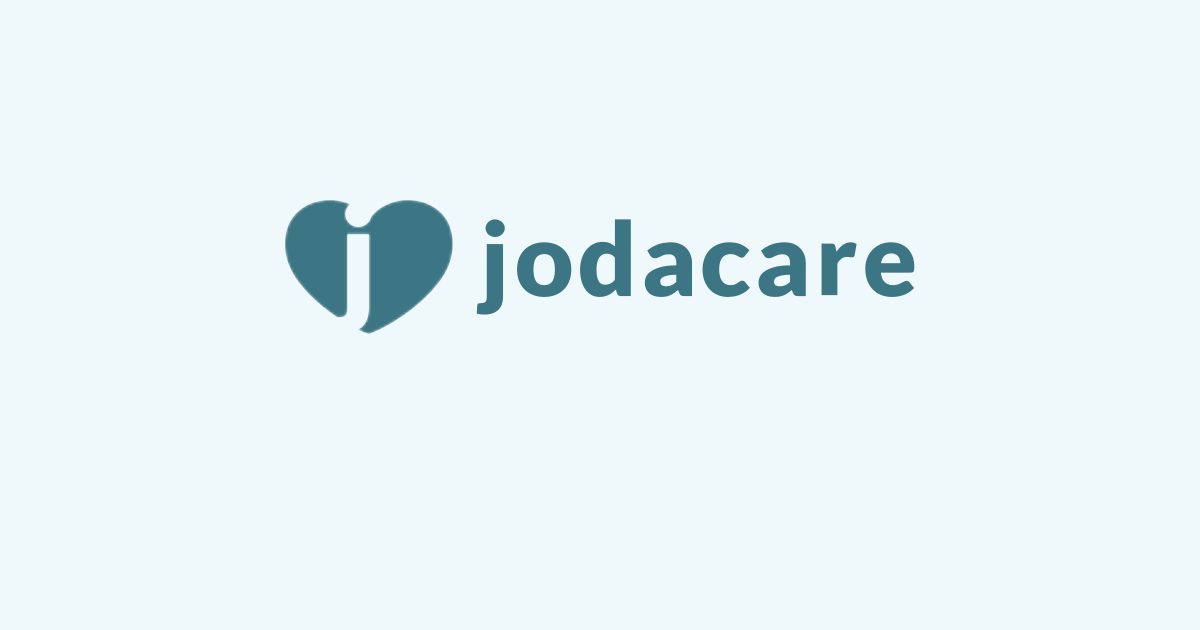
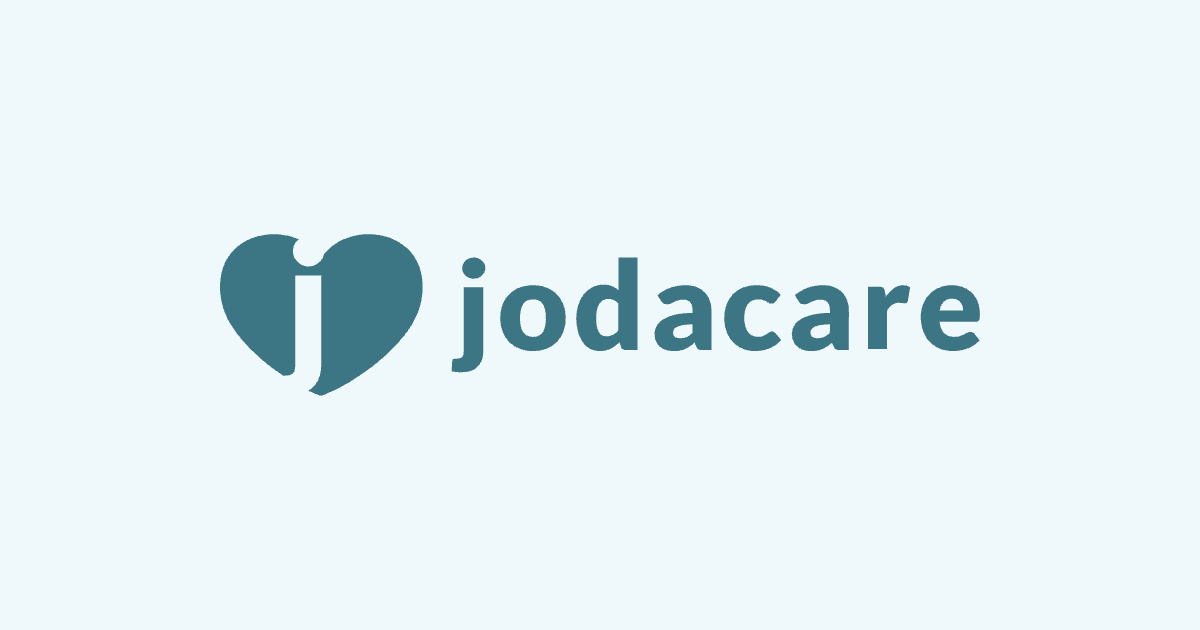
design(og): nytt delingsbilde, og tøm eksempelfelt ved fokus
og-image.png byttet til versjonen fra logopakken. Samme format
(1200x630), men logoen er sentrert og tegnet på nytt fra vektorformen.

På /rettigheter måtte man slette «Anne Berg» selv før man kunne skrive
sitt eget navn. Nå tømmes et felt som fortsatt står med eksempelteksten
i det markøren settes i det.

Går du ut av feltet uten å skrive noe, kommer eksempelet tilbake — ellers
ville en klikk-gjennomgang tømt hele brevet. Har du først skrevet i
feltet, står det du etterlot deg, også om det er tomt.

Statusen «rørt» styrer nå tre ting samtidig: dempet eller mørk tekst,
tømming ved fokus, og om «Tjenesten det gjelder» fortsatt fylles
automatisk fra valgt situasjon. tjenesteTouched er erstattet av den.

Nedtrekket for statsforvalter tømmes ikke — der velger man fra en liste.

Claude-Session: https://claude.ai/code/session_016StMWKjupE55sdfeuipjYT

Changed region(s): [[0.185, 0.3016, 0.8325, 0.6333]]

diff --git a/src/components/rettigheter/Rettighetsveileder.tsx b/src/components/rettigheter/Rettighetsveileder.tsx
@@ -63,7 +63,9 @@ export function Rettighetsveileder() {
   const [who, setWho] = useState<WhoId>(DEFAULT_WHO);
   const [sitId, setSitId] = useState<string>(DEFAULT_SIT);
   const [fields, setFields] = useState<Fields>(initialFields);
-  const [tjenesteTouched, setTjenesteTouched] = useState(false);
+  // Hvilke felt brukeren selv har skrevet i. Styrer både dempet tekst,
+  // tømming ved fokus og om «Tjenesten det gjelder» fylles automatisk.
+  const [touched, setTouched] = useState<Partial<Record<FieldKey, boolean>>>({});
   const [toast, setToast] = useState('');
   const letterRef = useRef<HTMLPreElement>(null);
   const answerRef = useRef<HTMLDivElement>(null);
@@ -81,7 +83,7 @@ export function Rettighetsveileder() {
     const validSit = allowed.find((s) => s.id === sitPart) ?? allowed[0];
     setWho(validWho.id);
     setSitId(validSit.id);
-    if (!tjenesteTouched) {
+    if (!touched.tjeneste) {
       setFields((f) => ({ ...f, tjeneste: validSit.defaultService }));
     }
     // Kjøres bare ved montering — hash leses én gang.
@@ -100,32 +102,55 @@ export function Rettighetsveileder() {
   const paaVegne = who === 'paa';
 
   // Felt som fortsatt står med eksempelverdien vises dempet, slik at det er
-  // tydelig at teksten skal byttes ut. Så snart feltet endres, blir den mørk.
+  // tydelig at teksten skal byttes ut. Så snart brukeren skriver, blir den mørk.
   const examples = data.examples as Partial<Record<FieldKey, string>>;
+  const erEksempel = (key: FieldKey) =>
+    examples[key] !== undefined && !touched[key];
   const fieldClass = (key: FieldKey) =>
-    clsx(
-      inputClass,
-      examples[key] !== undefined && fields[key] === examples[key]
-        ? 'text-text-light'
-        : 'text-text',
-    );
+    clsx(inputClass, erEksempel(key) ? 'text-text-light' : 'text-text');
 
   const setField = useCallback((key: FieldKey, value: string) => {
     setFields((f) => ({ ...f, [key]: value }));
   }, []);
+
+  /**
+   * Feltene er forhåndsfylt med et eksempel. Klikker du i et felt som fortsatt
+   * står med eksempelteksten, tømmes det, slik at du bare kan skrive.
+   *
+   * Går du ut igjen uten å skrive noe, kommer eksempelet tilbake — ellers ville
+   * en tilfeldig klikk-gjennomgang tømt hele brevet. Har du først skrevet i
+   * feltet, står det du etterlot deg, også om det er tomt.
+   */
+  const feltProps = (key: FieldKey) => ({
+    className: fieldClass(key),
+    value: fields[key],
+    onChange: (e: React.ChangeEvent<HTMLInputElement | HTMLTextAreaElement>) => {
+      setTouched((t) => ({ ...t, [key]: true }));
+      setField(key, e.target.value);
+    },
+    onFocus: () => {
+      if (erEksempel(key) && fields[key] !== '') setField(key, '');
+    },
+    onBlur: () => {
+      const eksempel = examples[key];
+      if (eksempel !== undefined && !touched[key] && fields[key] === '') {
+        setField(key, eksempel);
+      }
+    },
+  });
 
   const chooseWho = (id: WhoId) => {
     setWho(id);
     const ok = data.situations.filter((s) => s.appliesTo.includes(id));
     if (!ok.find((s) => s.id === sitId)) {
       setSitId(ok[0].id);
-      if (!tjenesteTouched) setField('tjeneste', ok[0].defaultService);
+      if (!touched.tjeneste) setField('tjeneste', ok[0].defaultService);
     }
   };
 
   const chooseSit = (s: Situation) => {
     setSitId(s.id);
-    if (!tjenesteTouched) setField('tjeneste', s.defaultService);
+    if (!touched.tjeneste) setField('tjeneste', s.defaultService);
     answerRef.current?.scrollIntoView({ behavior: 'smooth', block: 'start' });
   };
 
@@ -332,17 +357,13 @@ export function Rettighetsveileder() {
             <label className={labelClass}>
               {data.fields.navn}
               <input
-                className={fieldClass('navn')}
-                value={fields.navn}
-                onChange={(e) => setField('navn', e.target.value)}
+                {...feltProps('navn')}
               />
             </label>
             <label className={labelClass}>
               {data.fields.kommune}
               <input
-                className={fieldClass('kommune')}
-                value={fields.kommune}
-                onChange={(e) => setField('kommune', e.target.value)}
+                {...feltProps('kommune')}
               />
             </label>
             <label className={labelClass}>
@@ -350,7 +371,10 @@ export function Rettighetsveileder() {
               <select
                 className={fieldClass('fylke')}
                 value={fields.fylke}
-                onChange={(e) => setField('fylke', e.target.value)}
+                onChange={(e) => {
+                  setTouched((t) => ({ ...t, fylke: true }));
+                  setField('fylke', e.target.value);
+                }}
               >
                 {data.statsforvaltere.map((f) => (
                   <option key={f} value={f}>
@@ -362,9 +386,7 @@ export function Rettighetsveileder() {
             <label className={labelClass}>
               {data.fields.enhet}
               <input
-                className={fieldClass('enhet')}
-                value={fields.enhet}
-                onChange={(e) => setField('enhet', e.target.value)}
+                {...feltProps('enhet')}
               />
             </label>
             {paaVegne ? (
@@ -372,17 +394,13 @@ export function Rettighetsveileder() {
                 <label className={labelClass}>
                   {data.fields.pasient}
                   <input
-                    className={fieldClass('pasient')}
-                    value={fields.pasient}
-                    onChange={(e) => setField('pasient', e.target.value)}
+                    {...feltProps('pasient')}
                   />
                 </label>
                 <label className={labelClass}>
                   {data.fields.relasjon}
                   <input
-                    className={fieldClass('relasjon')}
-                    value={fields.relasjon}
-                    onChange={(e) => setField('relasjon', e.target.value)}
+                    {...feltProps('relasjon')}
                   />
                 </label>
               </>
@@ -390,56 +408,41 @@ export function Rettighetsveileder() {
             <label className={labelClass}>
               {data.fields.tjeneste}
               <input
-                className={fieldClass('tjeneste')}
-                value={fields.tjeneste}
-                onChange={(e) => {
-                  setTjenesteTouched(true);
-                  setField('tjeneste', e.target.value);
-                }}
+{...feltProps('tjeneste')}
               />
             </label>
             <label className={labelClass}>
               {data.fields.dato}
               <input
                 type="date"
-                className={fieldClass('dato')}
-                value={fields.dato}
-                onChange={(e) => setField('dato', e.target.value)}
+                {...feltProps('dato')}
               />
             </label>
             <label className={labelClass}>
               {data.fields.saksnr}
               <input
-                className={fieldClass('saksnr')}
-                value={fields.saksnr}
-                onChange={(e) => setField('saksnr', e.target.value)}
+                {...feltProps('saksnr')}
               />
             </label>
             <label className={labelClass}>
               {data.fields.idag}
               <input
                 type="date"
-                className={fieldClass('idag')}
-                value={fields.idag}
-                onChange={(e) => setField('idag', e.target.value)}
+                {...feltProps('idag')}
               />
             </label>
             <label className={clsx(labelClass, 'sm:col-span-2')}>
               {data.fields.sok}
               <textarea
                 rows={4}
-                className={fieldClass('sok')}
-                value={fields.sok}
-                onChange={(e) => setField('sok', e.target.value)}
+                {...feltProps('sok')}
               />
             </label>
             <label className={clsx(labelClass, 'sm:col-span-2')}>
               {data.fields.hvorfor}
               <textarea
                 rows={5}
-                className={fieldClass('hvorfor')}
-                value={fields.hvorfor}
-                onChange={(e) => setField('hvorfor', e.target.value)}
+                {...feltProps('hvorfor')}
               />
             </label>
           </form>
